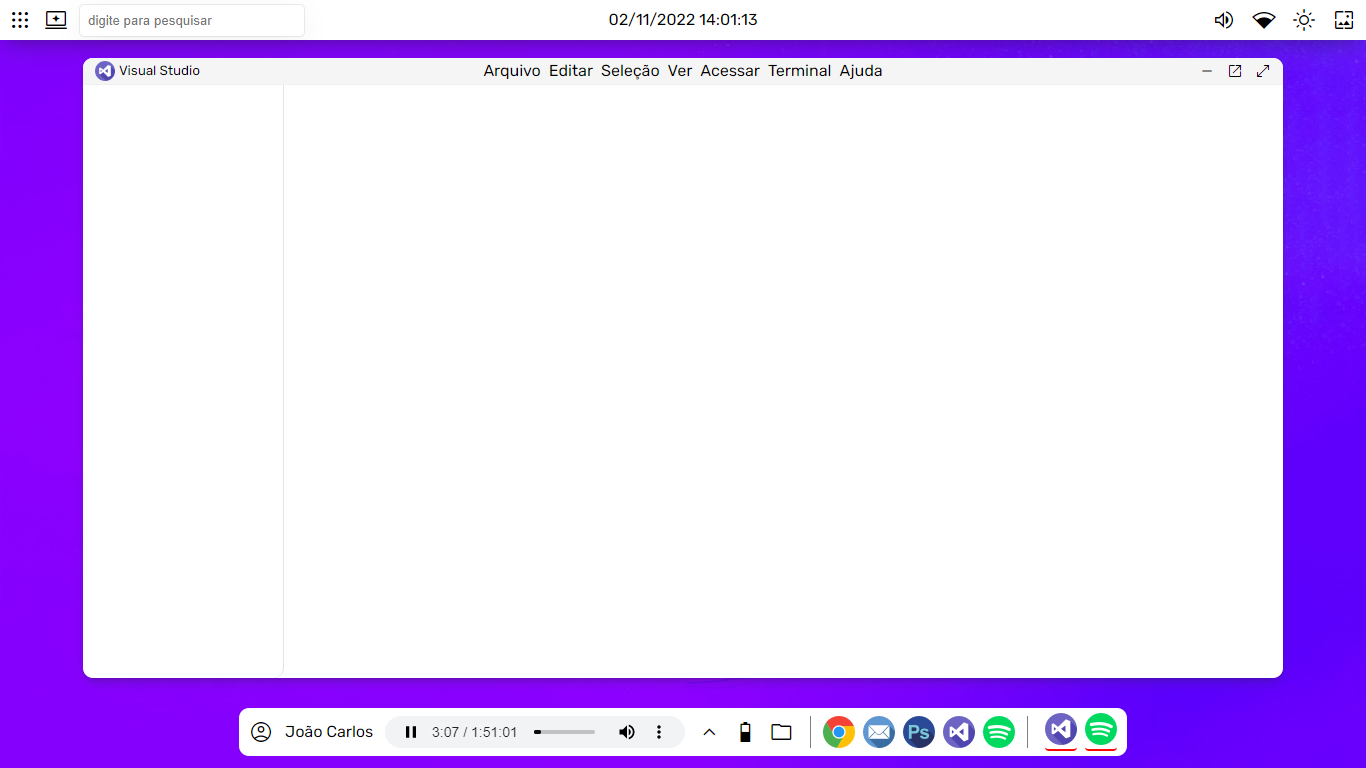
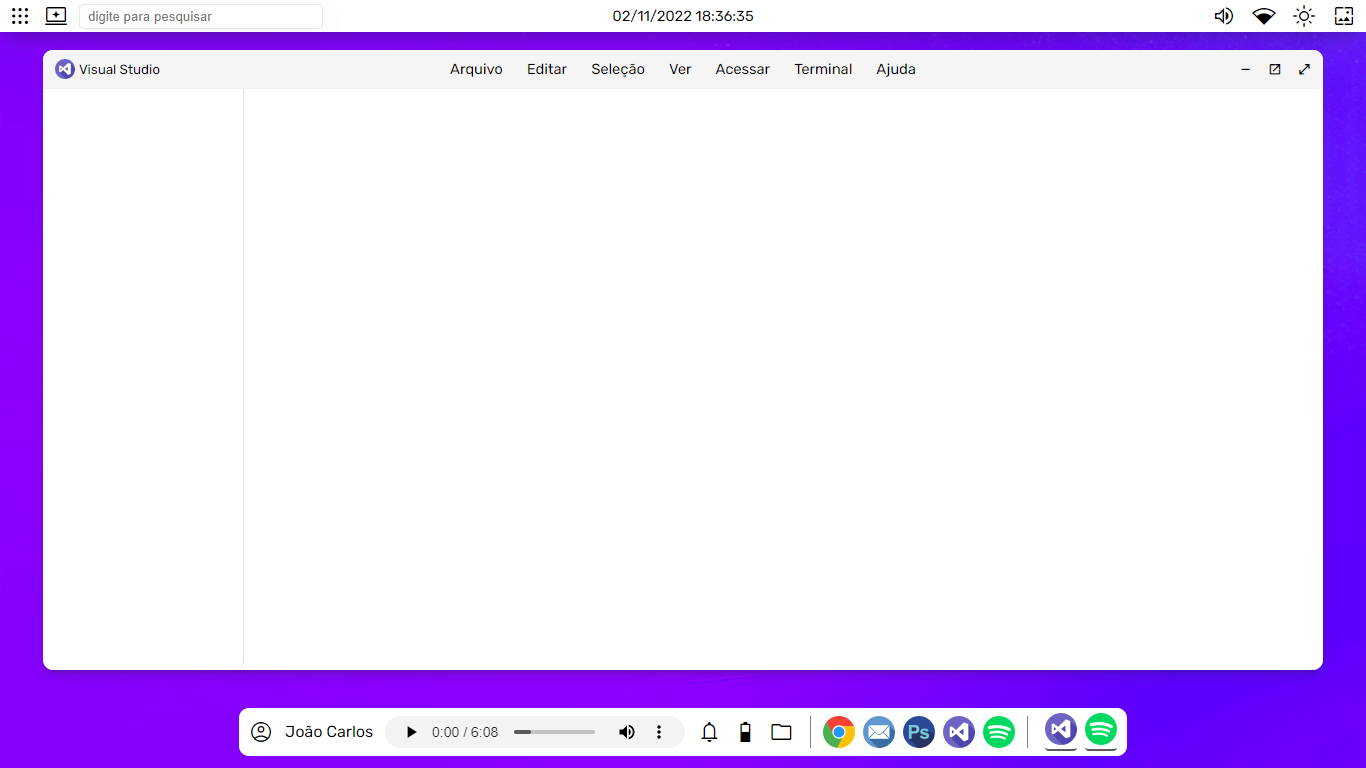
atulização de fontes no desktop

Changed region(s): [[0.0, 0.0, 1.0, 0.9062], [0.3382, 0.9375, 0.3997, 0.9688], [0.4919, 0.9375, 0.5227, 0.9688]]

diff --git a/Desktop concept/css/main.css b/Desktop concept/css/main.css
@@ -28,7 +28,7 @@ body{
 #window_exemple{
     background-color: white;
     margin: 0 auto;
-    width: 1200px;
+    width: 1280px;
     height: 620px;
     box-sizing: border-box;
     border-radius: 10px;
@@ -39,7 +39,7 @@ body{
 
 #window_exemple #window_top_bar {
     width: 100%;
-    height: 28px;
+    height: 42px;
     background-color: rgb(245, 245, 245);
     border-top-left-radius: 10px;
     border-top-right-radius: 10px;
@@ -75,21 +75,23 @@ body{
     display: flex;
     flex-direction: row;
     align-items: center;
-    gap: 8px;
+    gap: 24px;
     margin: 0 auto;
+    font-size: 11pt;
 }
 
 #window_top_bar #dispatch_area{
     display: flex;
     flex-direction: row;
-    gap: 12px;
+    gap: 16px;
     align-items: center;
     width: 100%;
     justify-content: end;
 }
 
 #dispatch_area span{
-        font-size: 12pt;
+    font-size: 10pt;
+    font-weight: bold;
 }
 
 #window_exemple #left-window_actions{
@@ -158,6 +160,6 @@ body{
     height: 32px;
     width: 32px;
     padding-bottom: 4px;
-    border-bottom: 2px solid red;
+    border-bottom: 2px solid rgb(87, 87, 87);
     border-radius: 4px;
 }

diff --git a/Desktop concept/css/taskbar.css b/Desktop concept/css/taskbar.css
@@ -5,10 +5,11 @@
     display: flex;
     flex-direction: row;
     align-items: center;
-    padding: 20px 8px;
+    padding: 16px 8px;
     justify-content: space-between;
     box-shadow: rgba(50, 50, 93, 0.25) 0px 13px 27px -5px, rgba(0, 0, 0, 0.3) 0px 8px 16px -8px;
     transition: 0.3s ease;
+    font-size: 11pt;
 }
 
 #task_bar #current-datetime{
@@ -49,8 +50,8 @@
 
 
 #search_input{
-    width: 224px;
-    padding: 8px;
+    width: 242px;
+    padding: 4px 8px;
     box-sizing: border-box;
     border-radius: 4px;
     border: none;

diff --git a/Desktop concept/index.html b/Desktop concept/index.html
@@ -86,7 +86,7 @@
                 <audio controls autoplay>
                   <source src="./files/music/example.mp3" type="audio/mpeg">
                 </audio>
-                <span class="material-symbols-outlined">expand_less</span>
+                <span class="material-symbols-outlined">notifications</span>
                 <span class="material-symbols-outlined">battery_4_bar</span>
                 <span class="material-symbols-outlined">folder</span>
             </div>
